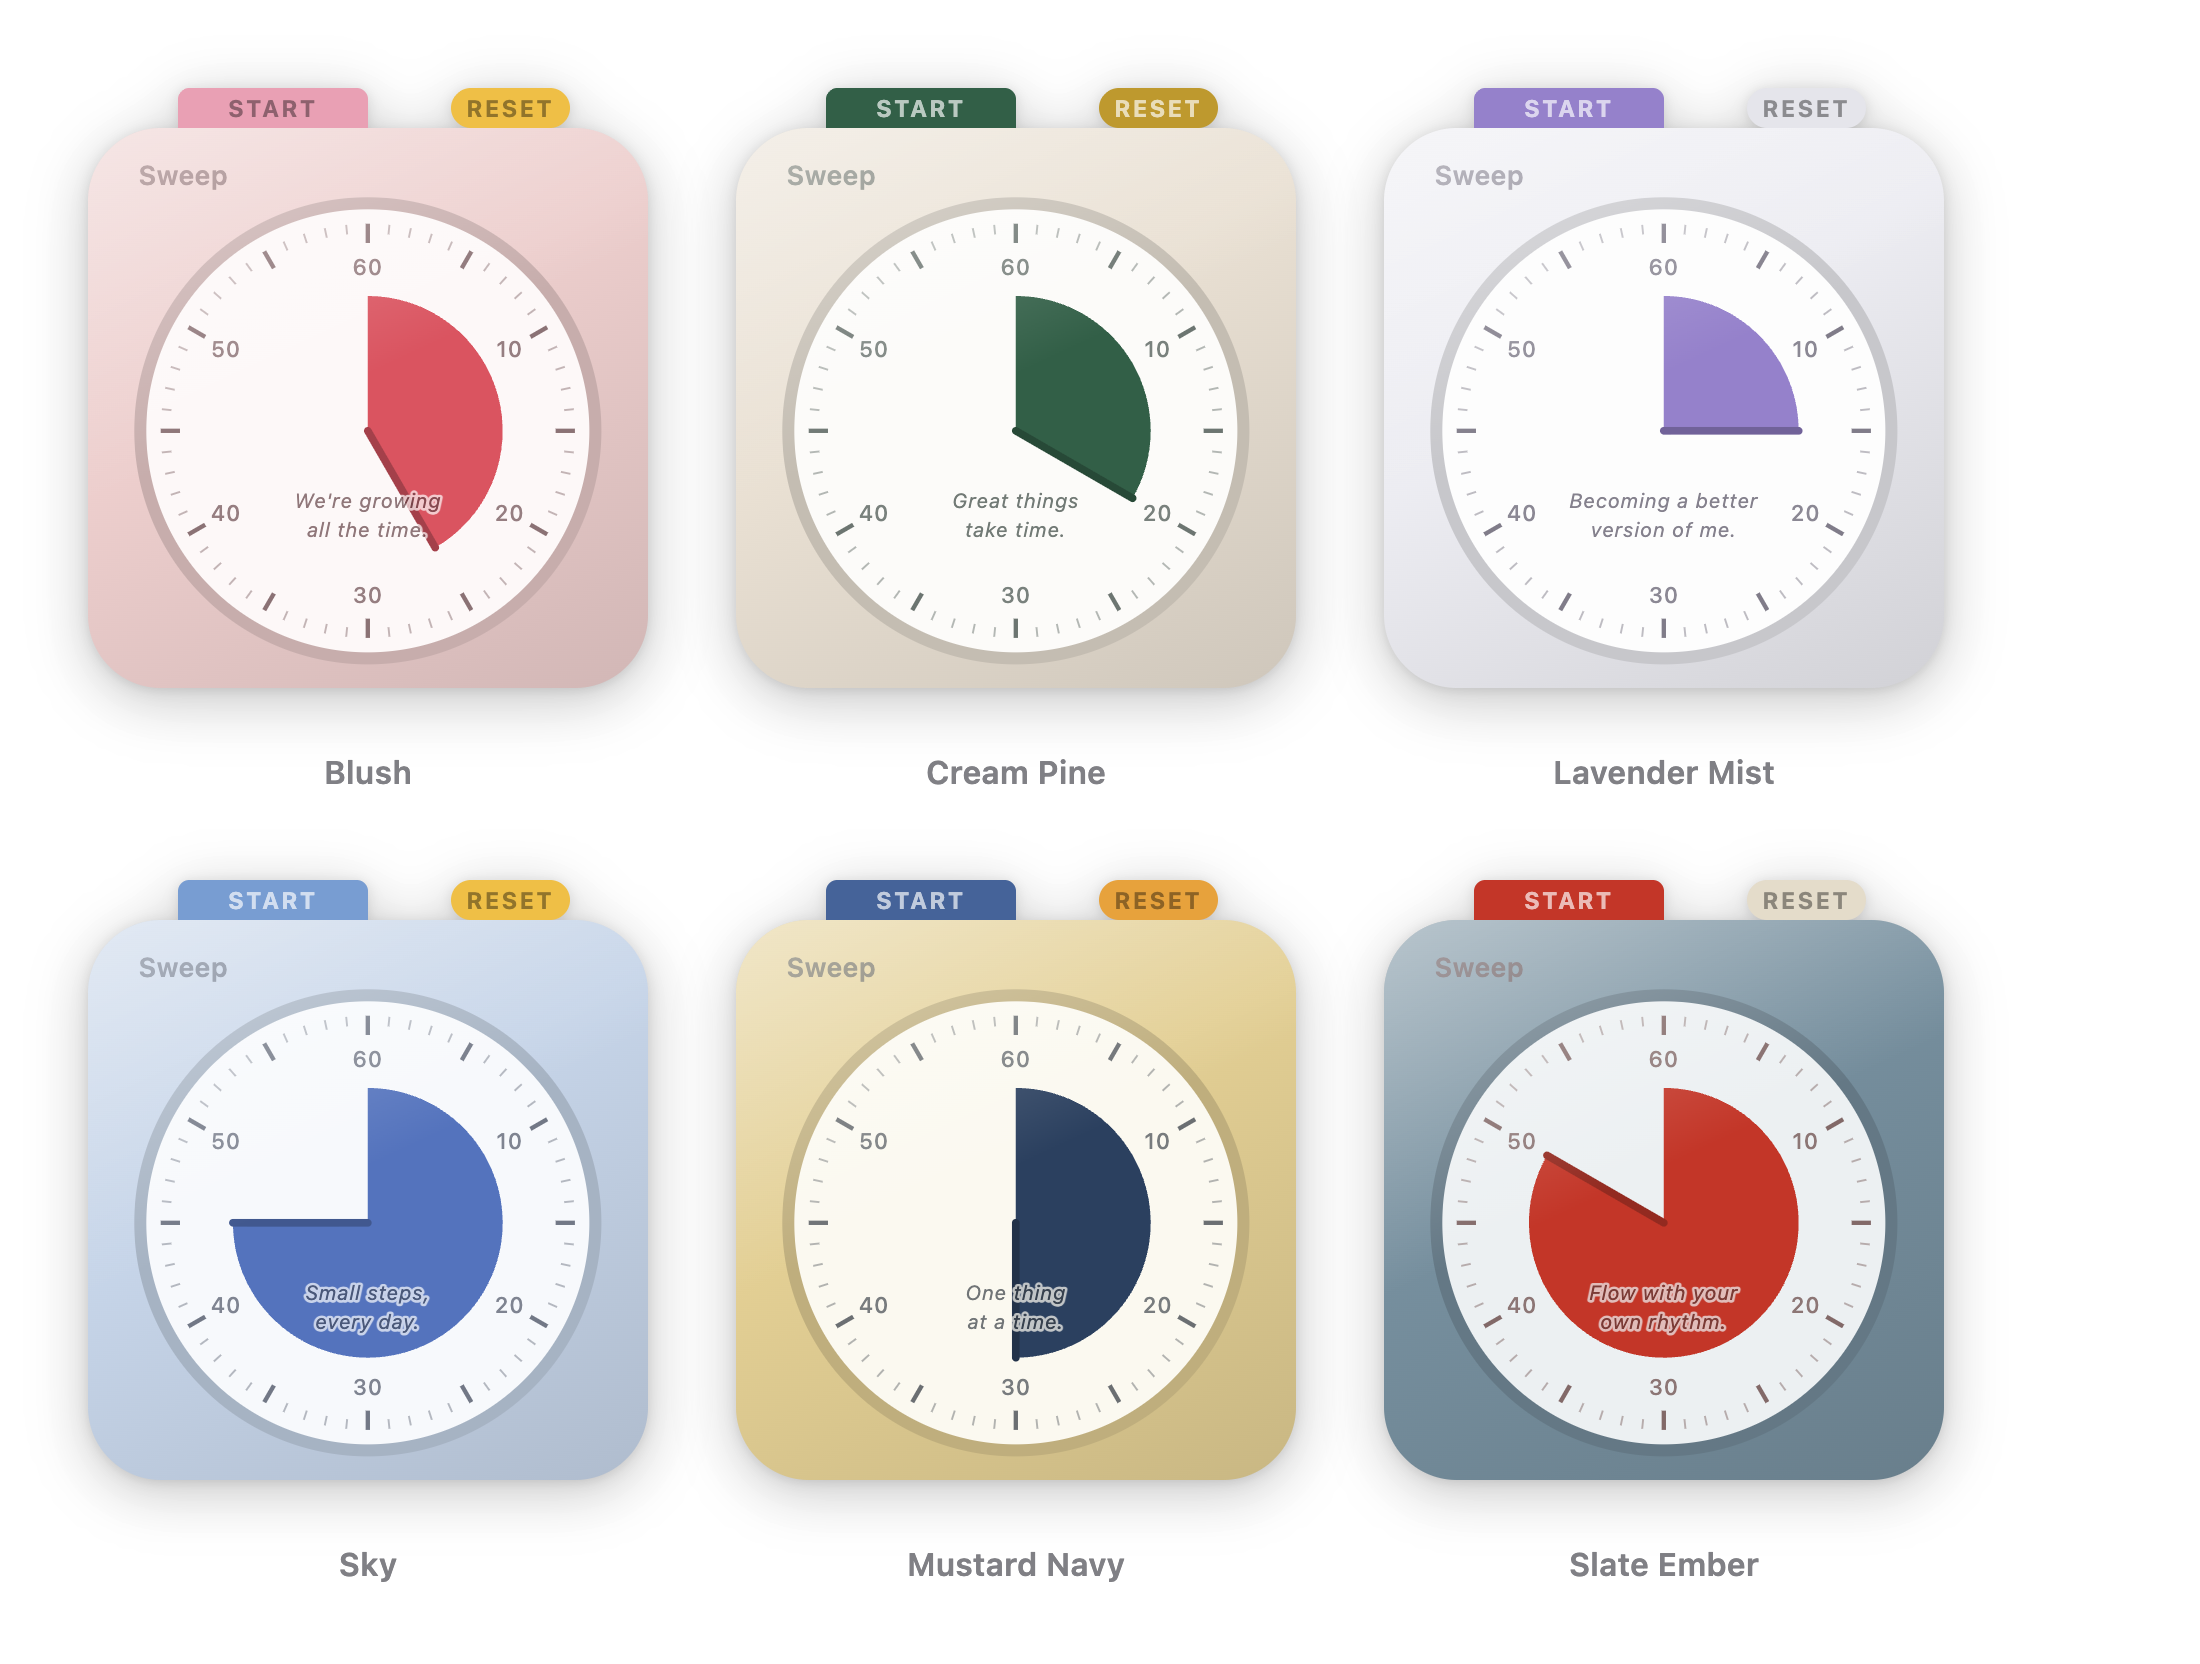
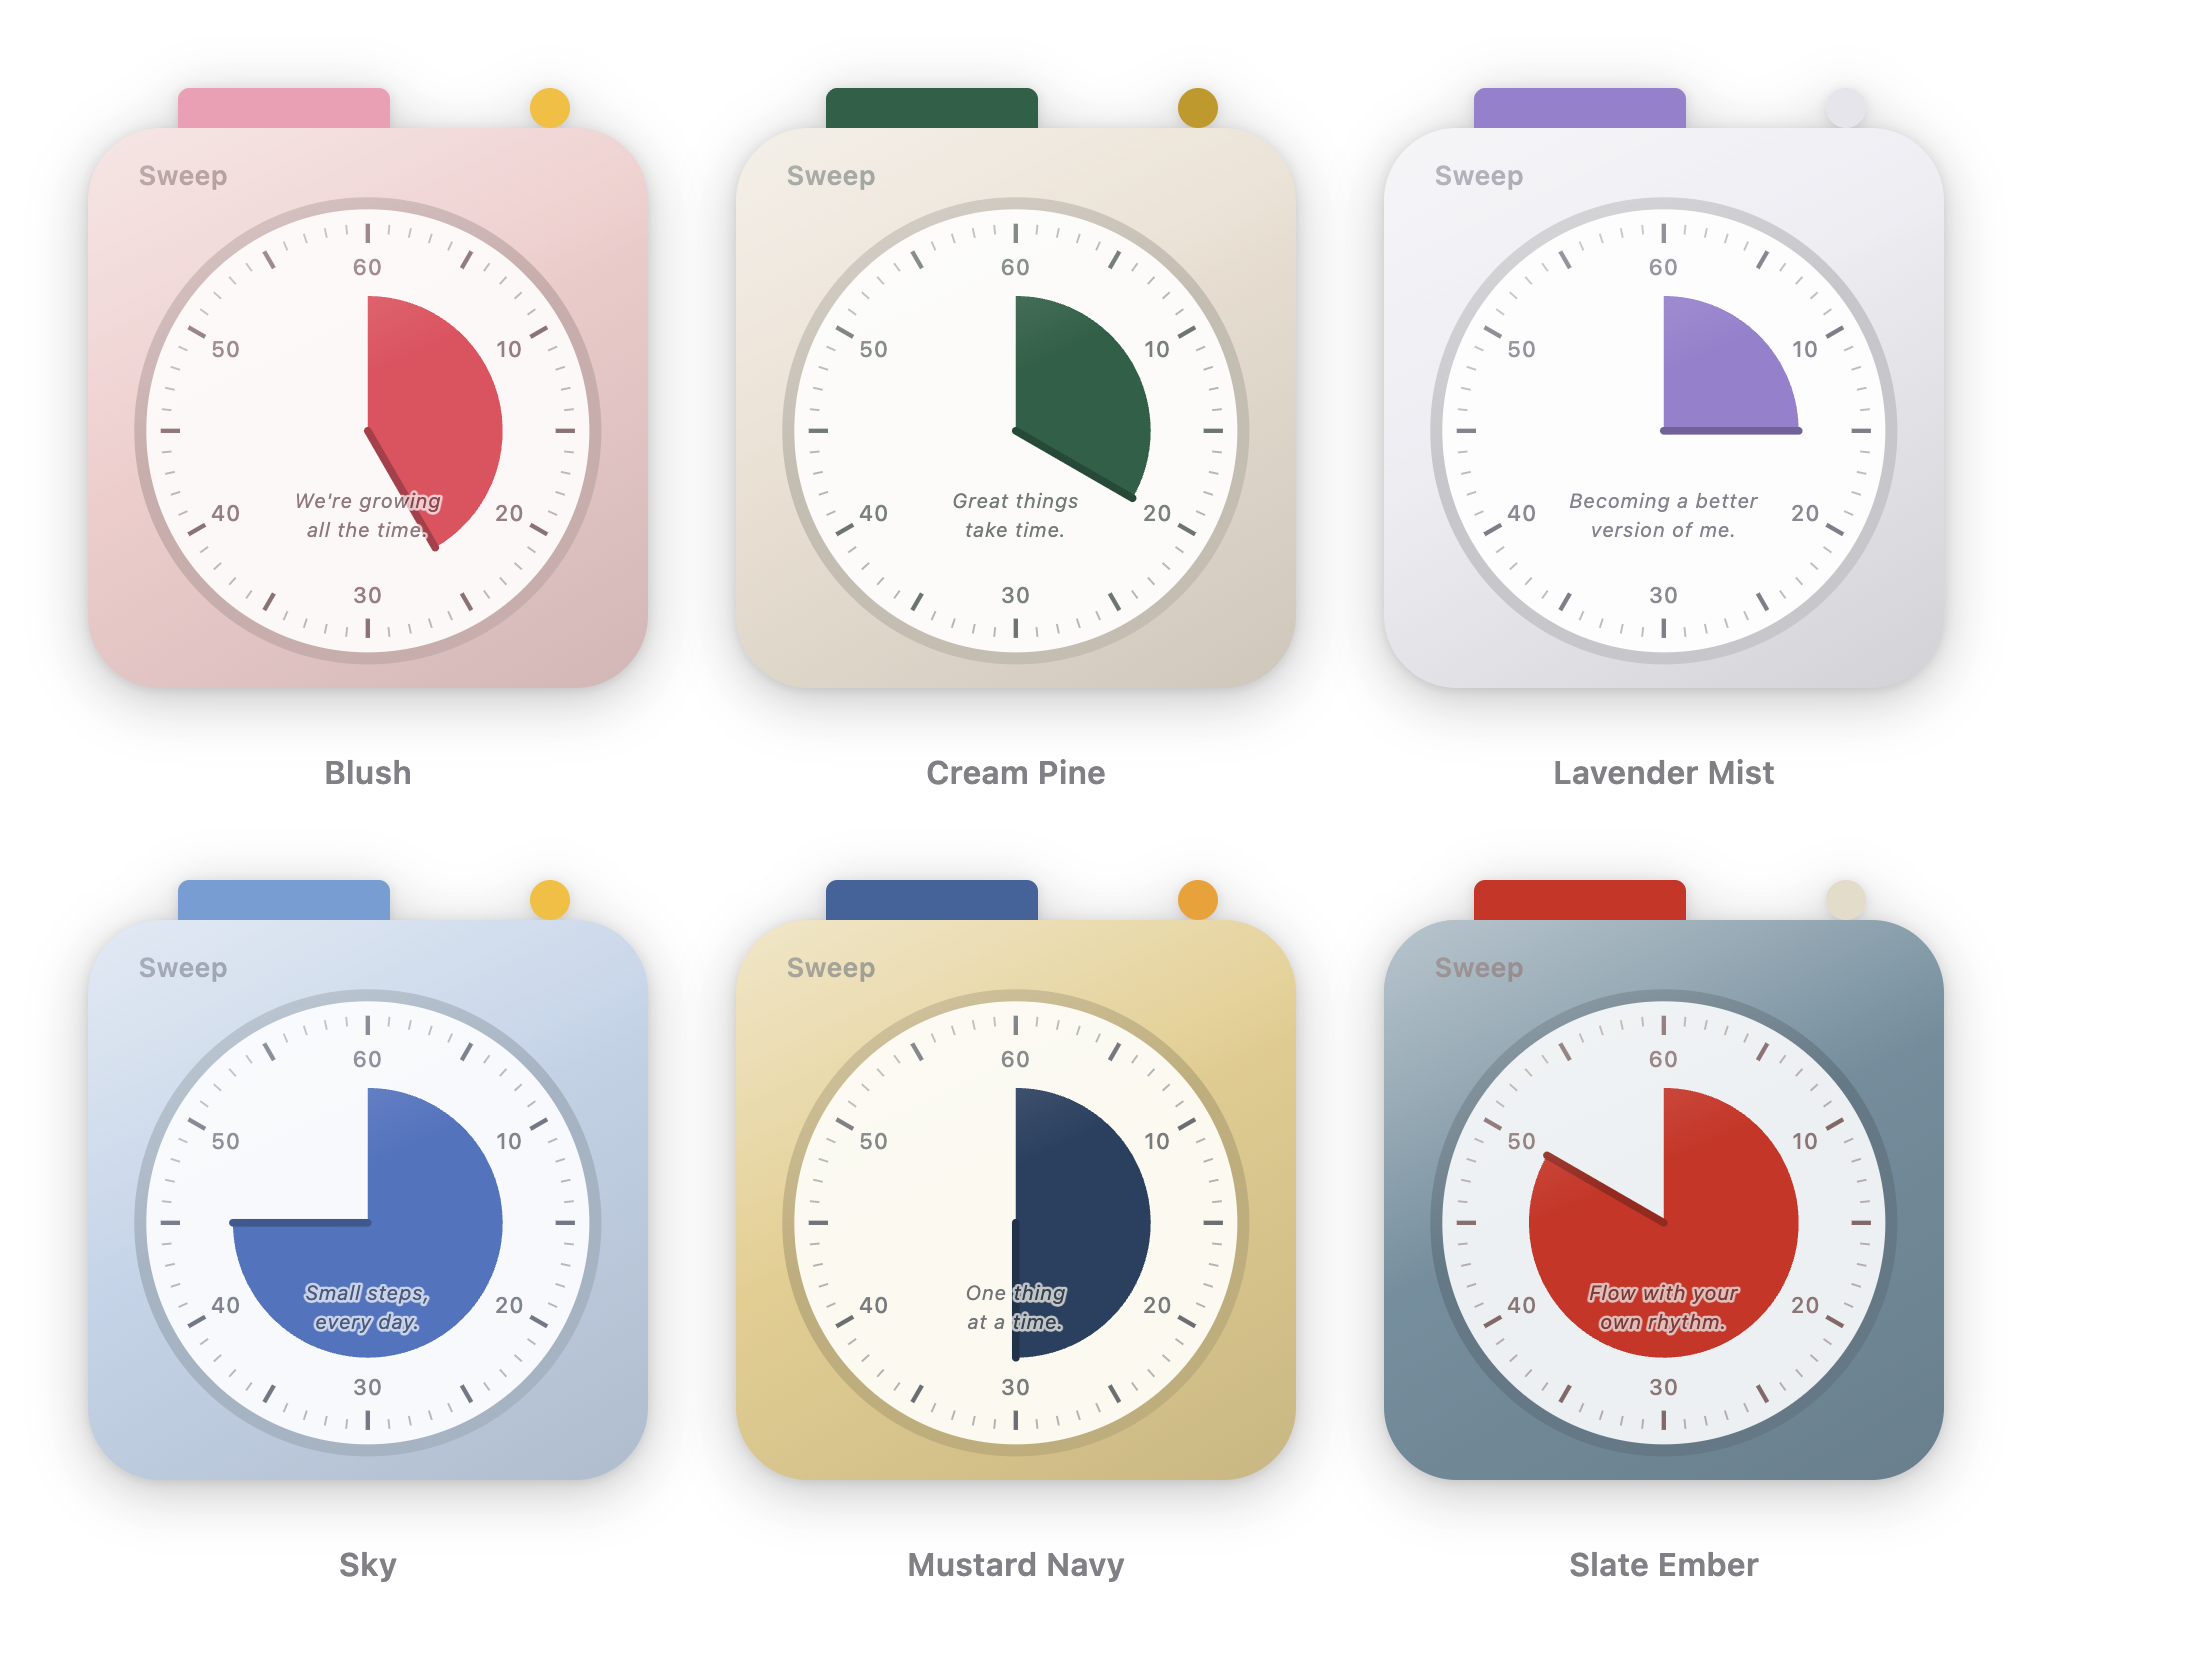
Name the controls on hover instead of lettering them
At 140px a caption inside a button is unreadable, and at any size it fought
with the moulded-plastic look the case is going for. The buttons are bare
again — the round one is a circle rather than a pill — and hovering a control
names it in a pill near the top of the dial.

The knob in bare-dial mode is the one control carrying two gestures, so its
tooltip gets a second, quieter line for the double-click. Everything else
shows one word, which is what a tooltip should be.

Latin button words were shouted in caps and abbreviated to fit a small button
(RAZ, DÉPART); as tooltip text they are written out normally now. The
luminance helpers that picked a legible caption colour are gone with the
captions.

diff --git a/renderer/app.js b/renderer/app.js
@@ -16,8 +16,9 @@ const minuteInput = document.querySelector('.minute-input')
 const againBtn = document.querySelector('.again')
 const btnBar = document.querySelector('.btn-bar')
 const btnRound = document.querySelector('.btn-round')
-const lblToggle = document.getElementById('lbl-toggle')
-const lblReset = document.getElementById('lbl-reset')
+const tip = document.getElementById('tip')
+const tipMain = tip.querySelector('.tip-main')
+const tipHint = tip.querySelector('.tip-hint')
 
 const L = (key, vars) => window.t(settings ? settings.lang : 'en', key, vars)
 
@@ -58,8 +59,6 @@ function applySettings (s) {
   root.setProperty('--unit', s.sizeUnit + 'px')
   root.setProperty('--op-active', String(s.opacity))
   root.setProperty('--op-idle', String(s.idleFade ? s.idleOpacity : s.opacity))
-  root.setProperty('--btn-ink', window.inkFor(sc.btn))
-  root.setProperty('--knob-ink', window.inkFor(sc.knob))
 
   stage.className = 'mode-' + s.mode + (stage.classList.contains('flashing') ? ' flashing' : '')
   document.body.classList.toggle('compact', s.sizeUnit < 165)
@@ -79,12 +78,40 @@ function applySettings (s) {
   render()
 }
 
-// Captions, tooltips and the replay button all come from the dictionary.
+// The replay button and the tooltip both come from the dictionary.
 function applyI18n () {
-  lblReset.textContent = L('btn.reset')
-  btnBar.title = L('tip.startPause')
-  btnRound.title = L('tip.reset')
   if (!againBtn.hidden) againBtn.textContent = L('again', { m: timer.minutes })
+  if (tipFor) renderTip()
+}
+
+// ---------------------------------------------------------------- tooltip
+// The controls carry no lettering — at 140px a caption is unreadable anyway.
+// Hovering one names it instead, in a pill near the top of the dial.
+let tipFor = null
+let tipHideTimer = null
+
+function renderTip () {
+  tipMain.textContent = tipFor === 'reset'
+    ? L('btn.reset')
+    : L(timer.state === 'running' ? 'btn.pause' : 'btn.start')
+  // only the bare-dial knob carries a second gesture worth explaining
+  tipHint.textContent = tipFor === 'knob' ? L('tip.knobHint') : ''
+  tipHint.hidden = tipFor !== 'knob'
+}
+
+function showTip (which) {
+  tipFor = which
+  clearTimeout(tipHideTimer)
+  renderTip()
+  tip.hidden = false
+  requestAnimationFrame(() => tip.classList.add('show'))
+}
+
+function hideTip () {
+  tipFor = null
+  tip.classList.remove('show')
+  clearTimeout(tipHideTimer)
+  tipHideTimer = setTimeout(() => { tip.hidden = true }, 200)
 }
 
 let persistMinutes = null
@@ -109,7 +136,7 @@ function render () {
   hand.setAttribute('y2', hy.toFixed(2))
   hand.style.opacity = dm > 0.02 ? '1' : '0'
   readout.textContent = fmt(timer.state === 'idle' ? timer.minutes * 60000 : timer.remainingMs)
-  lblToggle.textContent = L(timer.state === 'running' ? 'btn.pause' : 'btn.start')
+  if (tipFor) renderTip()
   document.body.classList.toggle('fade', !!settings && settings.idleFade && timer.state === 'idle')
 }
 
@@ -194,6 +221,13 @@ hub.addEventListener('click', e => {
   if (hubClickTimer) return
   hubClickTimer = setTimeout(() => { hubClickTimer = null; hubToggle() }, 220)
 })
+
+// hover -> name the control
+btnBar.addEventListener('mouseenter', () => showTip('toggle'))
+btnRound.addEventListener('mouseenter', () => showTip('reset'))
+hub.addEventListener('mouseenter', () =>
+  showTip(settings && settings.mode === 'dial' ? 'knob' : 'toggle'))
+for (const el of [btnBar, btnRound, hub]) el.addEventListener('mouseleave', hideTip)
 
 hub.addEventListener('dblclick', e => {
   e.stopPropagation()
@@ -300,6 +334,7 @@ function updateHitTest (e) {
     lastOver = over
     api.setIgnoreMouse(!over)
     document.body.classList.toggle('hot', over)
+    if (!over) hideTip()
   }
 }
 
@@ -308,6 +343,7 @@ function updateHitTest (e) {
 window.addEventListener('blur', () => {
   lastOver = false
   document.body.classList.remove('hot')
+  hideTip()
 })
 
 // ---------------------------------------------------------------- menu

diff --git a/renderer/style.css b/renderer/style.css
@@ -62,35 +62,57 @@ body.hot #stage { opacity: 1; }
 }
 .btn-bar {
   left: 16%;
-  width: 34%;
+  width: 38%;
   height: 100%;
   border-radius: calc(var(--unit) * 0.02) calc(var(--unit) * 0.02) 0 0;
 }
-/* wide enough for its caption, but never narrower than a round button */
 .btn-round {
   right: 14%;
-  min-width: var(--nub);
+  width: var(--nub);
   height: var(--nub);
-  padding: 0 calc(var(--unit) * 0.028);
-  border-radius: 999px;
+  border-radius: 50%;
   background: var(--knob);
 }
 
-.btn-label {
-  font-size: calc(var(--unit) * 0.042);
-  font-weight: 700;
-  letter-spacing: .09em;
-  white-space: nowrap;
+/* A single tooltip, shown near the top of the dial while a control is hovered.
+   Dark and self-coloured so it stays legible over every colourway. */
+.tip {
+  position: absolute;
+  left: 50%;
+  top: 15%;
+  transform: translate(-50%, -4px);
+  z-index: 5;
+  padding: calc(var(--unit) * 0.022) calc(var(--unit) * 0.055);
+  border-radius: 999px;
+  background: rgba(28, 28, 30, .9);
+  color: rgba(255, 255, 255, .94);
+  font-size: calc(var(--unit) * 0.055);
+  font-weight: 500;
+  /* the knob's caption names two gestures, so it has to be allowed to wrap
+     rather than run off the edge of a 236px window */
+  max-width: 86%;
+  text-align: center;
+  line-height: 1.4;
   pointer-events: none;
-  opacity: .78;
+  box-shadow: 0 2px 8px rgba(0, 0, 0, .28);
+  opacity: 0;
+  transition: opacity .14s ease, transform .14s ease;
 }
-.btn-bar .btn-label { color: var(--btn-ink, rgba(255,255,255,.85)); }
-.btn-round .btn-label { color: var(--knob-ink, rgba(255,255,255,.85)); }
+.tip-main { display: block; }
+.tip-hint {
+  display: block;
+  font-size: .8em;
+  font-weight: 400;
+  opacity: .62;
+  margin-top: .2em;
+}
 
-/* below roughly 120px the captions turn to fuzz, so let the shapes speak */
-body.tiny .btn-label { display: none; }
-body.tiny .btn-round { padding: 0; width: var(--nub); }
-.btn-bar:active, .btn-round:active { transform: translateY(6%); filter: brightness(.94); }
+.tip.show {
+  opacity: 1;
+  transform: translate(-50%, 0);
+}
+#stage.mode-dial .tip { top: 12%; }
+body.tiny .tip { display: none; }
 
 /* ------------------------------------------------------------ case */
 .case {

diff --git a/renderer/i18n.js b/renderer/i18n.js
@@ -14,7 +14,7 @@ const STRINGS = {
     'win.history': 'Sweep — 紀錄',
 
     'btn.start': '開始', 'btn.pause': '暫停', 'btn.reset': '重置',
-    'tip.startPause': '開始 / 暫停', 'tip.reset': '重置',
+    'tip.knobHint': '雙擊重置',
     'again': '↻ 再 {m} 分鐘',
 
     'notify.title': '倒數結束',
@@ -58,7 +58,7 @@ const STRINGS = {
     'win.history': 'Sweep — 记录',
 
     'btn.start': '开始', 'btn.pause': '暂停', 'btn.reset': '重置',
-    'tip.startPause': '开始 / 暂停', 'tip.reset': '重置',
+    'tip.knobHint': '双击重置',
     'again': '↻ 再 {m} 分钟',
 
     'notify.title': '倒计时结束',
@@ -102,7 +102,7 @@ const STRINGS = {
     'win.history': 'Sweep — 記録',
 
     'btn.start': '開始', 'btn.pause': '一時停止', 'btn.reset': 'リセット',
-    'tip.startPause': '開始 / 一時停止', 'tip.reset': 'リセット',
+    'tip.knobHint': 'ダブルクリックでリセット',
     'again': '↻ もう {m} 分',
 
     'notify.title': '時間になりました',
@@ -145,8 +145,8 @@ const STRINGS = {
     'win.settings': 'Sweep — Settings',
     'win.history': 'Sweep — History',
 
-    'btn.start': 'START', 'btn.pause': 'PAUSE', 'btn.reset': 'RESET',
-    'tip.startPause': 'Start / pause', 'tip.reset': 'Reset',
+    'btn.start': 'Start', 'btn.pause': 'Pause', 'btn.reset': 'Reset',
+    'tip.knobHint': 'Double-click to reset',
     'again': '↻ Another {m} min',
 
     'notify.title': "Time's up",
@@ -190,8 +190,8 @@ const STRINGS = {
     'win.settings': 'Sweep — Réglages',
     'win.history': 'Sweep — Historique',
 
-    'btn.start': 'DÉPART', 'btn.pause': 'PAUSE', 'btn.reset': 'RAZ',
-    'tip.startPause': 'Démarrer / mettre en pause', 'tip.reset': 'Remettre à zéro',
+    'btn.start': 'Démarrer', 'btn.pause': 'Pause', 'btn.reset': 'Remettre à zéro',
+    'tip.knobHint': 'Double-clic : remise à zéro',
     'again': '↻ Encore {m} min',
 
     'notify.title': 'Temps écoulé',

diff --git a/renderer/schemes.js b/renderer/schemes.js
@@ -17,25 +17,3 @@ function findScheme (id, custom) {
 if (typeof module !== 'undefined' && module.exports) module.exports = { PRESETS, findScheme }
 if (typeof window !== 'undefined') { window.PRESETS = PRESETS; window.findScheme = findScheme }
 
-function hexToRgb (hex) {
-  const h = String(hex).replace('#', '')
-  const n = parseInt(h.length === 3 ? h.split('').map(c => c + c).join('') : h, 16)
-  return [(n >> 16) & 255, (n >> 8) & 255, n & 255]
-}
-
-function relLuminance (hex) {
-  const [r, g, b] = hexToRgb(hex).map(v => {
-    const s = v / 255
-    return s <= 0.03928 ? s / 12.92 : Math.pow((s + 0.055) / 1.055, 2.4)
-  })
-  return 0.2126 * r + 0.7152 * g + 0.0722 * b
-}
-
-// Button captions are white, as designed — but a few colourways use very pale
-// buttons, where white would vanish. Those fall back to a soft dark ink.
-function inkFor (hex) {
-  return relLuminance(hex) > 0.45 ? 'rgba(0,0,0,.5)' : 'rgba(255,255,255,.85)'
-}
-
-if (typeof module !== 'undefined' && module.exports) Object.assign(module.exports, { hexToRgb, relLuminance, inkFor })
-if (typeof window !== 'undefined') Object.assign(window, { hexToRgb, relLuminance, inkFor })

diff --git a/tools/showcase.html b/tools/showcase.html
@@ -40,8 +40,8 @@
 <template id="tpl">
   <div id="stage" class="mode-full">
     <div class="nub">
-      <div class="btn-bar"><span class="btn-label">START</span></div>
-      <div class="btn-round"><span class="btn-label">RESET</span></div>
+      <div class="btn-bar"></div>
+      <div class="btn-round"></div>
     </div>
     <div class="case">
       <div class="brand">Sweep</div>
@@ -99,8 +99,6 @@
     cell.style.setProperty('--sector', s.sector)
     cell.style.setProperty('--knob', s.knob)
     cell.style.setProperty('--btn', s.btn)
-    cell.style.setProperty('--btn-ink', window.inkFor(s.btn))
-    cell.style.setProperty('--knob-ink', window.inkFor(s.knob))
 
     const holder = document.createElement('div')
     holder.className = 'holder'

diff --git a/renderer/index.html b/renderer/index.html
@@ -4,12 +4,13 @@
 
 <div id="stage" class="mode-full">
   <div class="nub">
-    <div class="btn-bar" data-act="toggle"><span class="btn-label" id="lbl-toggle"></span></div>
-    <div class="btn-round" data-act="reset"><span class="btn-label" id="lbl-reset"></span></div>
+    <div class="btn-bar" data-act="toggle"></div>
+    <div class="btn-round" data-act="reset"></div>
   </div>
 
   <div class="case">
     <div class="brand"></div>
+    <div class="tip" id="tip" hidden><span class="tip-main"></span><span class="tip-hint" hidden></span></div>
 
     <div class="face-wrap">
       <svg viewBox="0 0 100 100" class="dial">
